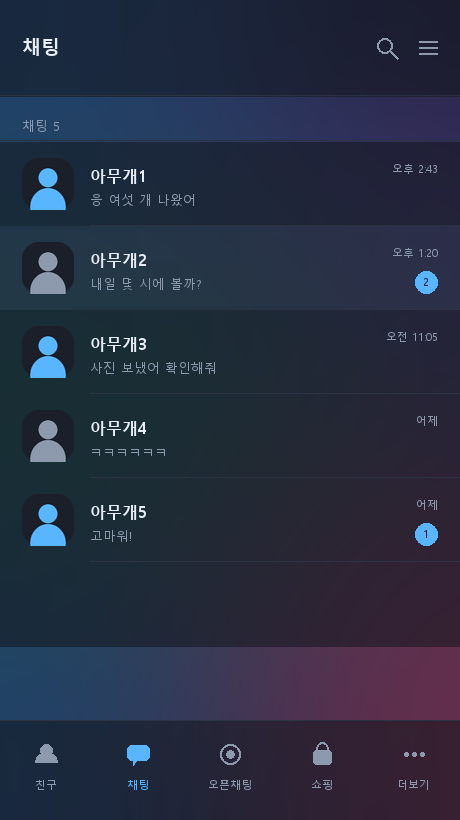
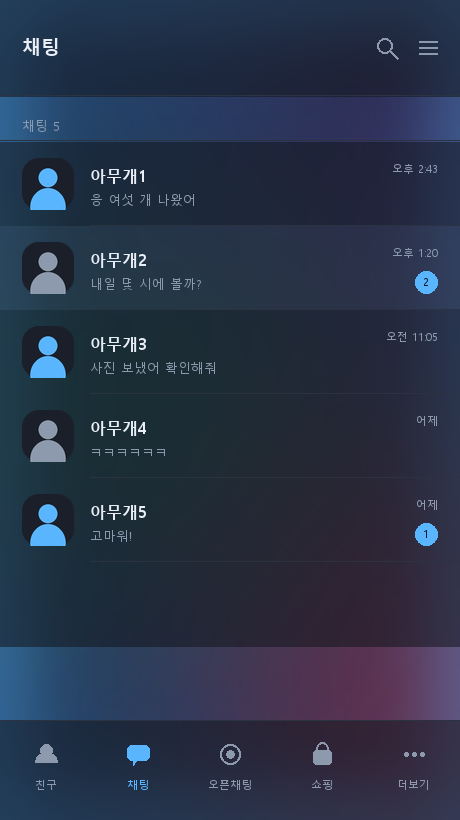
글로우를 넣고 알록달록한 두 테마의 말풍선을 단색으로 바꾼다
글로우는 두 곳에 얹는다. 말풍선 바깥으로 빛을 흘리고, 배경 가장자리에서 빛이 새어
들어오게 한다. 유리 테마에만 켰다.

말풍선 바깥 글로우는 cap inset 을 같이 키워야 한다. 늘어나는 구간에 글로우가 걸리면
가로로 늘어날 때 빛이 뭉개진다. 여백만큼 cap 을 자동으로 더하게 했다 —
유리 테마는 18px 이 30px 이 됐다.

믹스드와 캔디 팝은 말풍선을 단색으로 바꿨다. 두 색을 세로로 흘리면 색이 많은 테마에서는
지저분해 보인다. flat 옵션을 만들어 두 색의 중간값 하나로 채운다. 그라데이션이 어울리는
테마는 그대로 뒀다.

diff --git a/tools/gen.py b/tools/gen.py
@@ -57,23 +57,33 @@ def vgradient(w, h, top, bottom):
 SS = 4   # 4배로 그렸다 줄여서 계단현상을 없앤다
 
 
-def bubble_box(w, h, colors, radius, style='solid', alpha=255):
+def bubble_box(w, h, colors, radius, style='solid', alpha=255, glow=None, pad=0,
+               flat=False):
     """말풍선 하나를 정확히 w x h 로 그린다. 세로 그라데이션.
 
     style 이 glass 면 반투명하게 깔고 위쪽 테두리에 빛나는 선을 얹는다.
     유리 모서리에서 빛이 꺾이는 느낌을 내려는 것이다. 반투명이라 채팅방 배경이 비친다.
+
+    glow 가 있으면 말풍선 바깥으로 빛을 흘린다. 그만큼 pad 만큼 여백이 생기므로
+    돌려주는 그림은 (w + 2*pad, h + 2*pad) 다. cap inset 도 pad 만큼 키워야 한다 —
+    안 그러면 늘어나는 구간에 글로우가 걸려서 뭉개진다.
     """
     mask = Image.new('L', (w * SS, h * SS), 0)
     ImageDraw.Draw(mask).rounded_rectangle([0, 0, w * SS - 1, h * SS - 1],
                                            radius=radius * SS, fill=255)
     mask = mask.resize((w, h), Image.LANCZOS)
 
-    body = vgradient(w, h, rgb(colors[0]), rgb(colors[1])).convert('RGBA')
+    if flat:
+        c = rgb(mid(colors[0], colors[1]))
+        body = Image.new('RGB', (w, h), c).convert('RGBA')
+    else:
+        body = vgradient(w, h, rgb(colors[0]), rgb(colors[1])).convert('RGBA')
     if alpha < 255:
         body.putalpha(Image.new('L', (w, h), alpha))
 
     out = Image.new('RGBA', (w, h), (0, 0, 0, 0))
     out.paste(body, (0, 0), mask)
+    # (글로우는 아래에서 이 그림을 여백 있는 판에 옮겨 담은 뒤 깐다)
 
     if style == 'glass':
         # 테두리에 빛나는 선을 얹고, 위에서 아래로 갈수록 흐리게 만든다.
@@ -93,12 +103,36 @@ def bubble_box(w, h, colors, radius, style='solid', alpha=255):
         faded = ImageChops.multiply(rim.getchannel('A'), ramp)
         rim.putalpha(ImageChops.multiply(faded, mask))
         out.alpha_composite(rim)
-    return out
+
+    if not pad:
+        return out
+
+    # 바깥 글로우: 같은 모양을 글로우 색으로 찍어 흐린 뒤 본체를 그 위에 얹는다
+    gw, gh = w + pad * 2, h + pad * 2
+    halo = Image.new('RGBA', (gw, gh), (0, 0, 0, 0))
+    shape = Image.new('L', (gw, gh), 0)
+    ImageDraw.Draw(shape).rounded_rectangle(
+        [pad, pad, pad + w - 1, pad + h - 1], radius=radius, fill=255)
+    gc, ga = glow
+    halo.paste(Image.new('RGBA', (gw, gh), rgb(gc) + (ga,)), (0, 0), shape)
+    halo = halo.filter(ImageFilter.GaussianBlur(radius=pad * 0.6))
+    halo.alpha_composite(out, (pad, pad))
+    return halo
 
 
-def bubble(scale, colors, style='solid', alpha=255):
-    """안드로이드 9-patch 용 정사각 말풍선."""
-    return bubble_box(SIZE * scale, SIZE * scale, colors, RADIUS * scale, style, alpha)
+def bubble(scale, colors, style='solid', alpha=255, glow=None, pad=0, flat=False):
+    """안드로이드 9-patch 와 iOS 용 정사각 말풍선."""
+    return bubble_box(SIZE * scale, SIZE * scale, colors, RADIUS * scale,
+                      style, alpha, glow, pad * scale, flat)
+
+
+def glow_of(t):
+    """테마의 글로우 설정을 (색, 진하기, 여백pt) 로 푼다. 없으면 여백 0."""
+    g = t.get('glow')
+    if not g:
+        return None, 0
+    color, strength, pad = g
+    return (color, strength), pad
 
 
 def ninepatch(img, cap):
@@ -159,6 +193,26 @@ def chat_bg(spec, w, h):
                       fill=rgb(c))
     layer = layer.filter(ImageFilter.GaussianBlur(radius=w // 7))
     return Image.blend(base, layer, 0.55)
+
+
+def edge_glow(img, color, strength, width_ratio=0.22):
+    """배경 가장자리에 빛을 흘린다. 화면 테두리에서 빛이 새어 들어오는 느낌."""
+    w, h = img.size
+    ramp = Image.new('L', (w, h), 0)
+    d = ImageDraw.Draw(ramp)
+    steps = 40
+    bw = int(min(w, h) * width_ratio)
+    for i in range(steps):
+        t = i / (steps - 1)
+        inset = int(bw * t)
+        d.rectangle([inset, inset, w - 1 - inset, h - 1 - inset],
+                    outline=int(strength * (1 - t) ** 2))
+    ramp = ramp.filter(ImageFilter.GaussianBlur(radius=bw // 3 or 1))
+    layer = Image.new('RGBA', (w, h), rgb(color) + (255,))
+    layer.putalpha(ramp)
+    out = img.convert('RGBA')
+    out.alpha_composite(layer)
+    return out.convert('RGB')
 
 
 # --- iOS ----------------------------------------------------------------
@@ -341,33 +395,44 @@ BottomBannerStyle
 """
 
 
+def background(t, spec, w, h):
+    """배경 이미지 한 장. 테마에 글로우가 있으면 가장자리에 빛을 흘린다."""
+    img = chat_bg(spec, w, h)
+    g = t.get('glow')
+    if g:
+        img = edge_glow(img, g[0], min(255, g[1] + 40))
+    return img
+
+
 def gen_ios(t, root):
     img_dir = os.path.join(root, 'Images')
     os.makedirs(img_dir, exist_ok=True)
 
     style, alpha = t.get('bubble_style', 'solid'), t.get('bubble_alpha', 255)
+    glow, pad = glow_of(t)
     for side, key in (('Send', 'send'), ('Receive', 'recv')):
         for variant, pal in (('01', t[key]), ('02', t[key + '_alt'])):
             for scale in (2, 3):
                 name = 'chatroomBubble%s%s@%dx.png' % (side, variant, scale)
-                bubble(scale, pal, style, alpha).save(os.path.join(img_dir, name))
+                bubble(scale, pal, style, alpha, glow, pad,
+                       t.get('flat', False)).save(os.path.join(img_dir, name))
 
     chatbg = ''
     if t['chat_bg']:
-        chat_bg(t['chat_bg'], 600, 1300).save(os.path.join(img_dir, 'chatroomBgImage@2x.png'))
-        chat_bg(t['chat_bg'], 900, 1950).save(os.path.join(img_dir, 'chatroomBgImage@3x.png'))
+        background(t, t['chat_bg'], 600, 1300).save(os.path.join(img_dir, 'chatroomBgImage@2x.png'))
+        background(t, t['chat_bg'], 900, 1950).save(os.path.join(img_dir, 'chatroomBgImage@3x.png'))
         chatbg = "\n    -ios-background-image: 'chatroomBgImage.png';"
 
     mainbg = ''
     if t.get('main_bg'):
-        chat_bg(t['main_bg'], 600, 1300).save(os.path.join(img_dir, 'mainBgImage@2x.png'))
-        chat_bg(t['main_bg'], 900, 1950).save(os.path.join(img_dir, 'mainBgImage@3x.png'))
+        background(t, t['main_bg'], 600, 1300).save(os.path.join(img_dir, 'mainBgImage@2x.png'))
+        background(t, t['main_bg'], 900, 1950).save(os.path.join(img_dir, 'mainBgImage@3x.png'))
         mainbg = "\n    -ios-background-image: 'mainBgImage.png';"
 
     ca = t.get('cell_alpha', 1.0)
     fields = dict(t)
     fields.pop('cell_alpha', None)          # 아래에서 문자열로 다시 넣는다
-    css = CSS.format(version=themes.VERSION, cap=CAP, chatbg=chatbg, mainbg=mainbg,
+    css = CSS.format(version=themes.VERSION, cap=CAP + pad, chatbg=chatbg, mainbg=mainbg,
                      cell_alpha='%.2f' % ca,
                      cell_alpha_sel='%.2f' % min(1.0, ca + 0.15), **fields)
     with open(os.path.join(root, 'KakaoTalkTheme.css'), 'w', encoding='utf-8') as f:
@@ -476,17 +541,19 @@ def gen_android(t, root, code):
         f.write('\n'.join(lines))
 
     style, alpha = t.get('bubble_style', 'solid'), t.get('bubble_alpha', 255)
+    glow, pad = glow_of(t)
     for who, key in (('me', 'send'), ('you', 'recv')):
         for variant, pal in (('01', t[key]), ('02', t[key + '_alt'])):
             name = 'theme_chatroom_bubble_%s_%s_image.9.png' % (who, variant)
-            ninepatch(bubble(3, pal, style, alpha), CAP * 3).save(os.path.join(draw, name))
+            ninepatch(bubble(3, pal, style, alpha, glow, pad, t.get('flat', False)),
+                      (CAP + pad) * 3).save(os.path.join(draw, name))
 
     splash(t, 1080, 1920).save(os.path.join(draw, 'theme_splash_image.png'), optimize=True)
     if t['chat_bg']:
-        chat_bg(t['chat_bg'], 1080, 1920).save(
+        background(t, t['chat_bg'], 1080, 1920).save(
             os.path.join(draw, 'theme_chatroom_background_image.png'), optimize=True)
     if t.get('main_bg'):
-        chat_bg(t['main_bg'], 1080, 1920).save(
+        background(t, t['main_bg'], 1080, 1920).save(
             os.path.join(draw, 'theme_background_image.png'), optimize=True)
 
 

diff --git a/tools/themes.py b/tools/themes.py
@@ -29,12 +29,15 @@ note
   bubble_alpha  말풍선 불투명도 0~255. 낮을수록 채팅방 배경이 비친다
   cell_alpha    목록 셀 불투명도 0.0~1.0. 1 미만이면 뒤의 배경 이미지가 비친다
   main_bg       목록 화면 배경 이미지. chat_bg 와 같은 형식
+  flat          True 면 말풍선을 그라데이션 없이 단색으로 채운다. 두 색의 중간값을 쓴다
+  glow          (색, 진하기 0~255, 여백pt). 말풍선 바깥으로 빛을 흘리고 배경 가장자리에도 얹는다.
+                여백만큼 cap inset 이 자동으로 커진다 — 안 그러면 늘어날 때 글로우가 뭉개진다
 
 chat_bg
   None 이면 단색. ('linear', 위, 아래) 또는 ('aurora', 바탕, [색...]) 이면 이미지를 그린다.
 """
 
-VERSION = '0.4'
+VERSION = '0.5'
 
 THEMES = [
     dict(
@@ -77,6 +80,7 @@ THEMES = [
         border='#352D4C', text='#EDE9F7', subtext='#9A91B5',
         accent='#FFC24D', accent_dim='#D89A2B', on_accent='#2A1E05',
         # 네 칸에 전부 다른 색을 넣었다. 눌린 말풍선과 그룹 말풍선이 확 달라진다
+        flat=True,
         send=('#FF8A5B', '#FFC24D'), send_alt=('#5BE0B4', '#3D9BD9'),
         recv=('#7C6BE0', '#D96BB0'), recv_alt=('#4DC9E0', '#6BE09B'),
         send_text='#3A1E05', recv_text='#FFFFFF',
@@ -100,6 +104,7 @@ THEMES = [
         border='#F2E2BE', text='#3A3A46', subtext='#8A8698',
         accent='#FF7AA2', accent_dim='#E0537F', on_accent='#FFFFFF',
         # 라이트 쪽 알록달록. 네 칸이 전부 다르다
+        flat=True,
         send=('#FFD166', '#FF9F68'), send_alt=('#8AE0C0', '#4FC3D9'),
         recv=('#C2A7FF', '#FF9BC6'), recv_alt=('#9BD6FF', '#7ED7C1'),
         send_text='#4A2E10', recv_text='#3A2440',
@@ -115,6 +120,7 @@ THEMES = [
         recv=('#FFFFFF', '#E6EDF7'), recv_alt=('#F3F7FF', '#DCE6F4'),
         send_text='#0B2D50', recv_text='#1F2733',
         bubble_style='glass', bubble_alpha=165, cell_alpha=0.55,
+        glow=('#6FB6FF', 90, 10),
         chat_bg=('blobs', '#EFF3FA', ['#9BD4FF', '#C9B6FF', '#9BF0DC', '#FFC8E4']),
         main_bg=('blobs', '#F4F6FB', ['#BFE2FF', '#DCD0FF', '#C4F3E6', '#FFD9EC']),
     ),
@@ -128,6 +134,7 @@ THEMES = [
         recv=('#39404F', '#262C38'), recv_alt=('#454D5E', '#2F3542'),
         send_text='#EAF4FF', recv_text='#E8EDF6',
         bubble_style='glass', bubble_alpha=175, cell_alpha=0.55,
+        glow=('#5AB5FF', 120, 12),
         chat_bg=('blobs', '#0B0E14', ['#2F6FB5', '#6A4FB0', '#2E8C7E', '#B0487F']),
         main_bg=('blobs', '#10131A', ['#27568C', '#4E3C86', '#256B61', '#8A3A64']),
     ),

diff --git a/tools/preview.py b/tools/preview.py
@@ -74,8 +74,10 @@ def bubble_box(t, w, h, colors):
     9-slice 로 늘리지 않는다. 목표 크기가 고정 가장자리의 두 배보다 작아지면
     모서리가 겹쳐 깨진다. 어차피 둥근 사각형이라 필요한 크기로 바로 그리면 된다.
     """
-    return gen.bubble_box(w, h, colors, RADIUS,
-                          t.get('bubble_style', 'solid'), t.get('bubble_alpha', 255))
+    glow, pad = gen.glow_of(t)
+    img = gen.bubble_box(w, h, colors, RADIUS, t.get('bubble_style', 'solid'),
+                         t.get('bubble_alpha', 255), glow, pad, t.get('flat', False))
+    return img, pad
 
 
 def avatar(size, t, i):
@@ -159,7 +161,7 @@ def chat(t):
     img = Image.new('RGB', (W, H), rgb(t['bg']))
     body = H - HEAD - FOOT
     if t['chat_bg']:
-        img.paste(gen.chat_bg(t['chat_bg'], W, body), (0, HEAD))
+        img.paste(gen.background(t, t['chat_bg'], W, body), (0, HEAD))
     else:
         img.paste(Image.new('RGB', (W, body), rgb(t['bg_deep'])), (0, HEAD))
     _header(img, t, '아무개1', back=True)
@@ -183,15 +185,15 @@ def chat(t):
                 d.text((70, y + 2), '아무개1', font=F_NAME, fill=rgb(t['subtext']))
                 y += 24
             bx = 70
-            b = bubble_box(t, bw, bh, colors)
-            img.paste(b, (bx, y), b)
+            b, gp = bubble_box(t, bw, bh, colors)
+            img.paste(b, (bx - gp, y - gp), b)
             d.text((bx + pad_x, y + pad_y + 1), msg, font=F_MSG, fill=tc)
             d.text((bx + bw + 8, y + bh - 12), '오후 2:43',
                    font=F_TIME, fill=rgb(t['subtext']), anchor='lm')
         else:
             bx = W - 18 - bw
-            b = bubble_box(t, bw, bh, colors)
-            img.paste(b, (bx, y), b)
+            b, gp = bubble_box(t, bw, bh, colors)
+            img.paste(b, (bx - gp, y - gp), b)
             d.text((bx + pad_x, y + pad_y + 1), msg, font=F_MSG, fill=tc)
             d.text((bx - 8, y + bh - 12), '오후 2:43',
                    font=F_TIME, fill=rgb(t['subtext']), anchor='rm')
@@ -231,7 +233,7 @@ def chat_list(t):
     """
     ca = t.get('cell_alpha', 1.0)
     if t.get('main_bg'):
-        base = gen.chat_bg(t['main_bg'], W, H).convert('RGBA')
+        base = gen.background(t, t['main_bg'], W, H).convert('RGBA')
     else:
         base = Image.new('RGBA', (W, H), rgb(t['bg']) + (255,))
 
